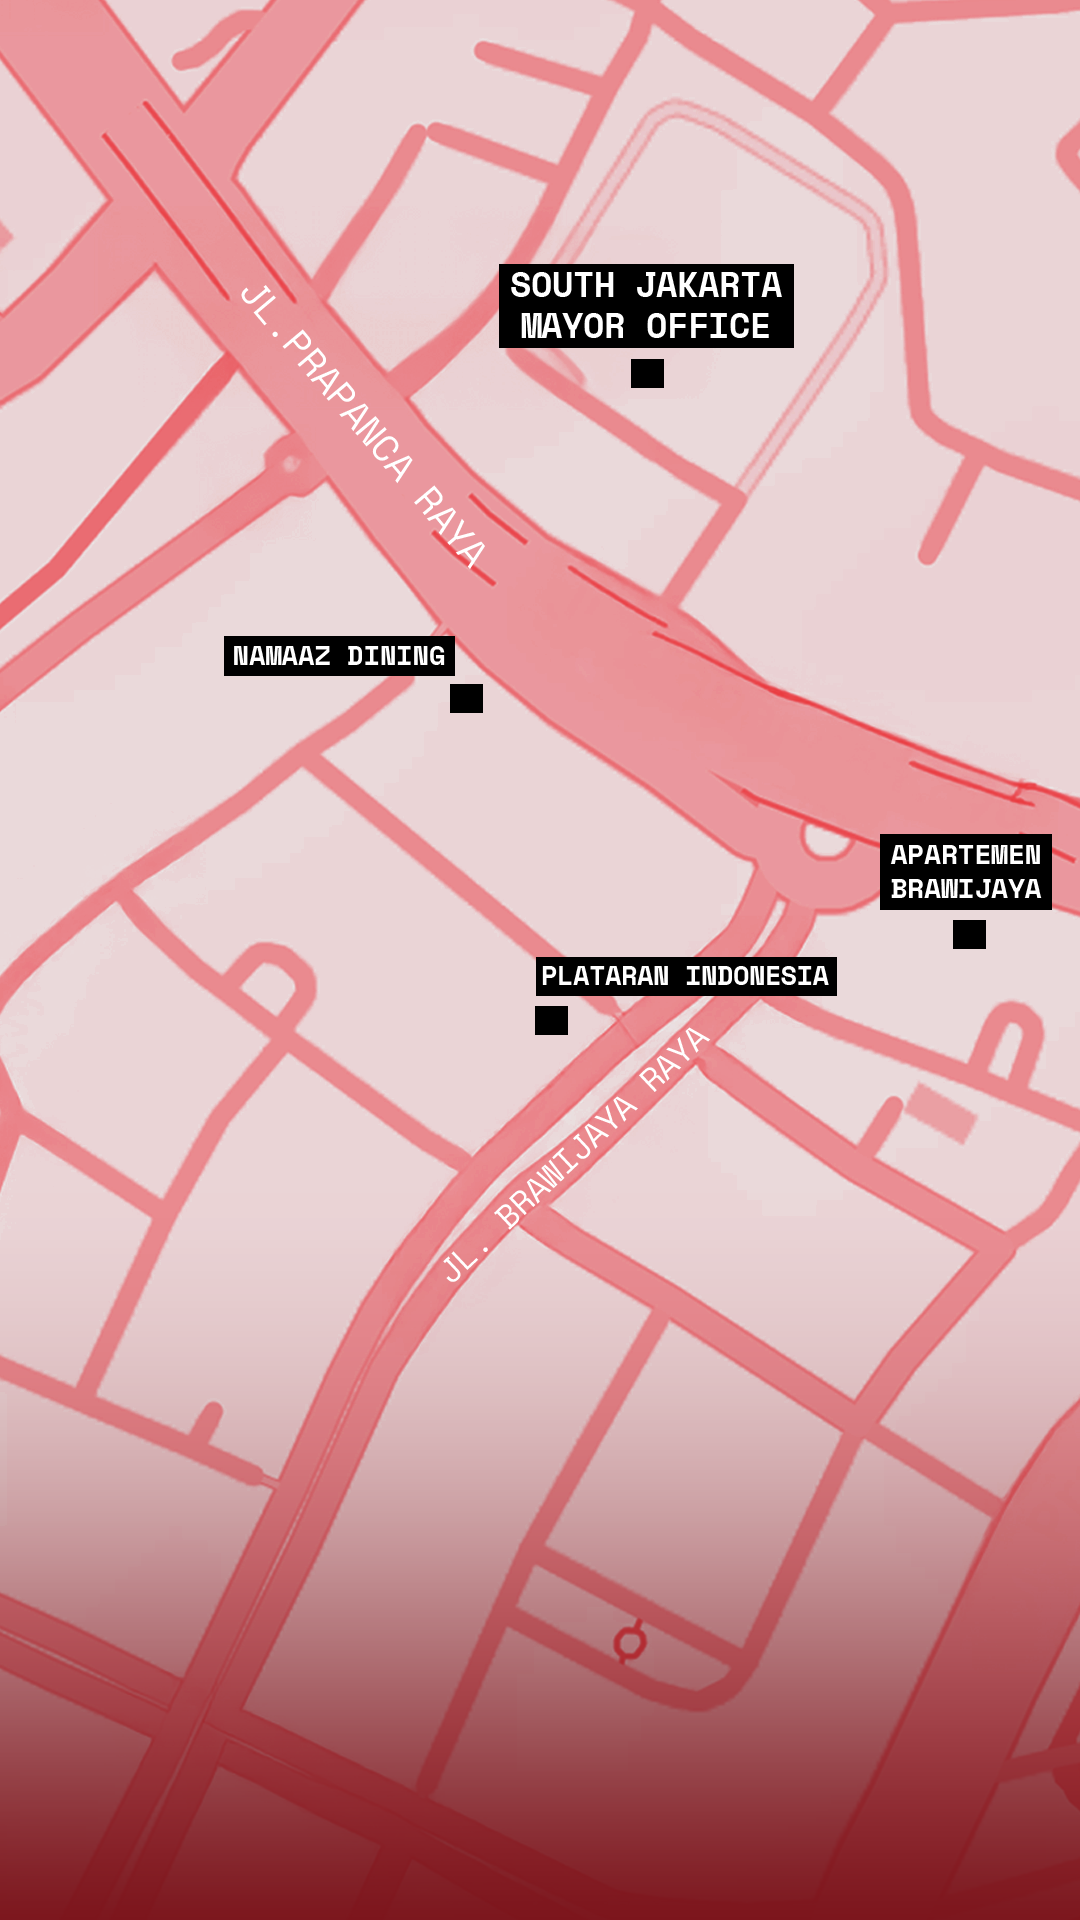
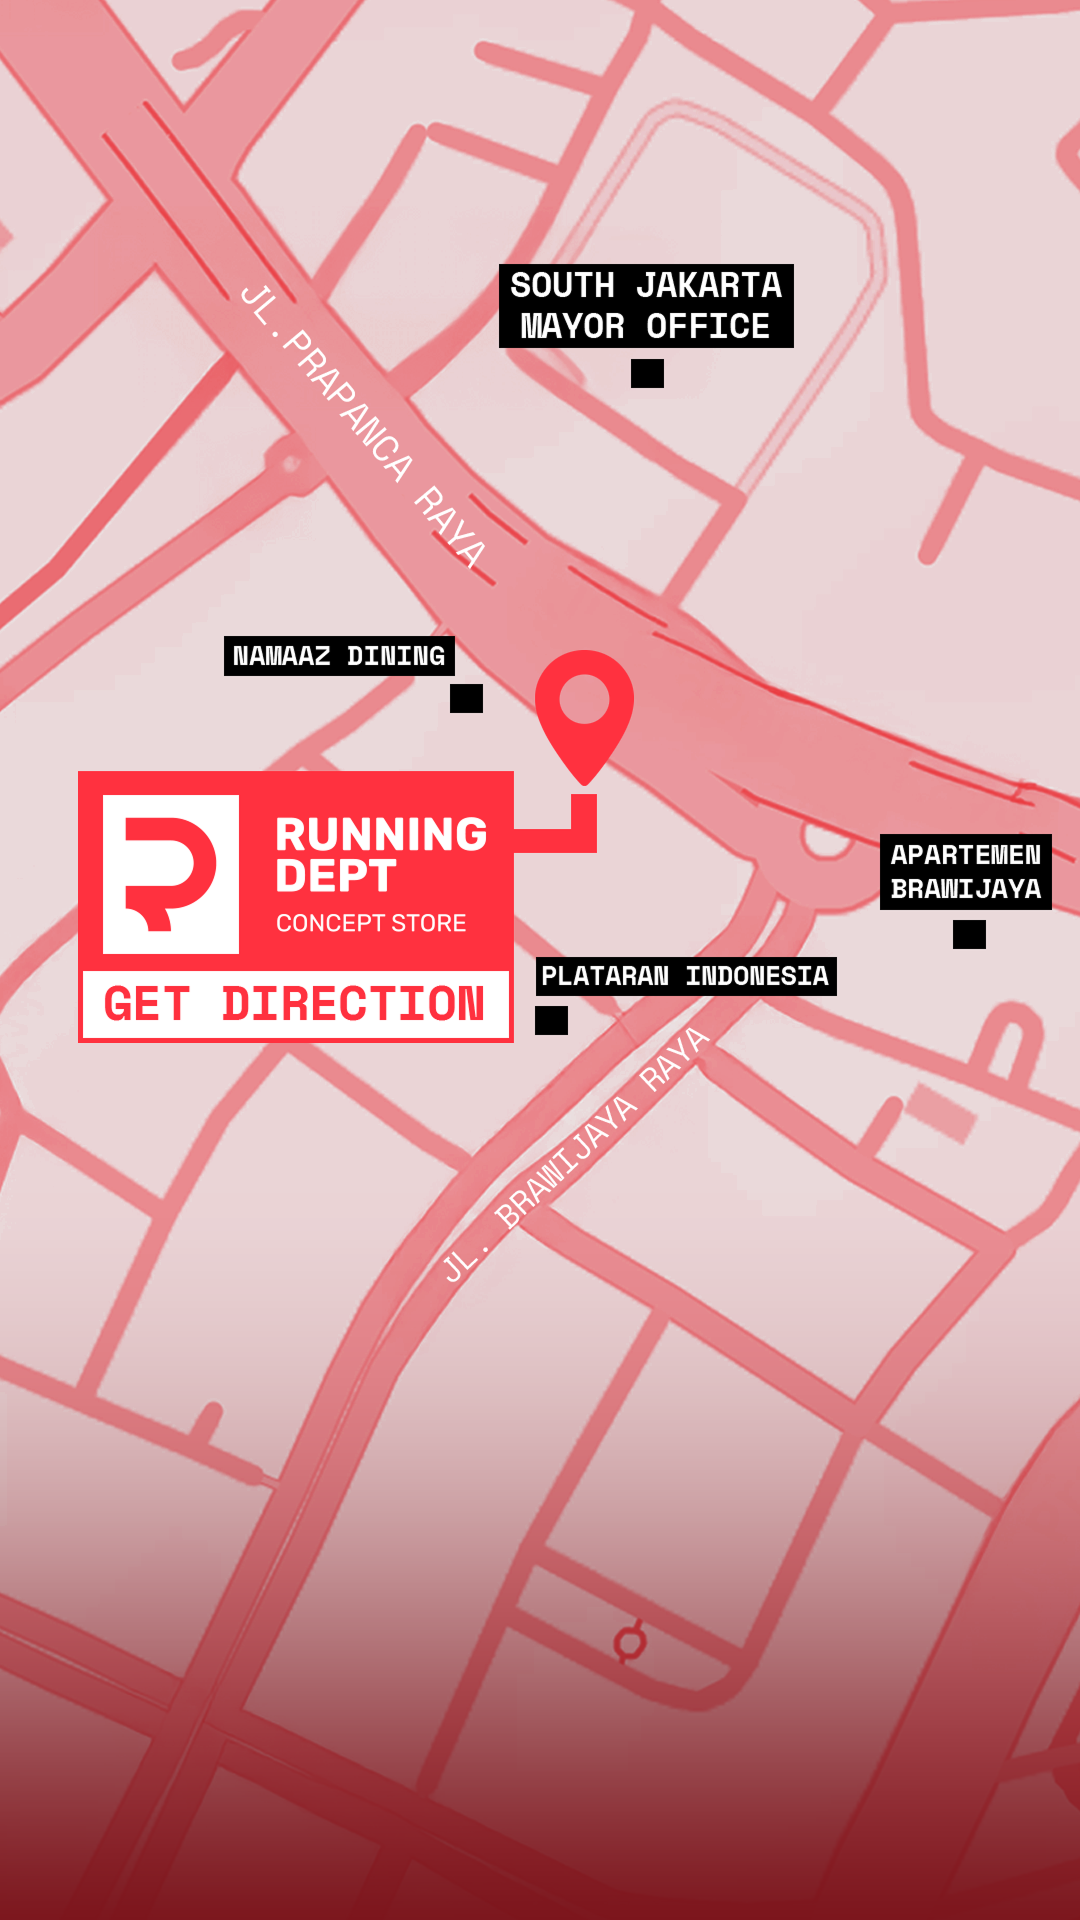
Update email and UI references from "Kick Off Day" to "Flag Off Day" and adjust image sizes

Changed region(s): [[0.0611, 0.3125, 0.6111, 0.5625]]

diff --git a/resources/views/index.blade.php b/resources/views/index.blade.php
@@ -19,12 +19,12 @@
 
             </a> -->
             <!-- start of corner texture -->
-            <div id="topRightCornerTexture" class="absolute  w-20 -z-10 transition-all duration-500 -top-20 -right-20">
+            <div id="topRightCornerTexture" class="absolute  w-12 -z-10 transition-all duration-500 -top-20 -right-20">
                 <img src="/assets/img/corner-texture.png" alt="corner texture"
                     class="w-full h-full object-cover object-top-right">
             </div>
             <!-- bottom left -->
-            <div id="bottomLeftCornerTexture" class="absolute -bottom-20 -left-32 w-20 -z-10 transition-all duration-500">
+            <div id="bottomLeftCornerTexture" class="absolute -bottom-20 -left-32 w-12 -z-10 transition-all duration-500">
                 <img style="  transform: scaleY(-1) rotate(90deg);filter: FlipV;" src="/assets/img/corner-texture.png" alt="corner texture"
                     class="w-full h-full object-cover object-bottom-left">
             </div>
@@ -32,7 +32,7 @@
 
             <div id="main"
                 class="flex flex-col relative min-h-[100svh] w-full text-white pt-20
-                pb-32 font-spaceMono snap-start overflow-hidden">
+                pb-20 font-spaceMono snap-start overflow-hidden">
                 <!-- <div
                     class="absolute w-full min-h-[100svh] h-full max-h-screen max-w-lg -z-10 left-0 lg:left-1/2 lg:-translate-x-1/2 top-0 bg-running-red/70">
                 </div> -->
@@ -57,8 +57,8 @@
                         </div> -->
                     </div>
                     <div class="text-center px-2 flex flex-col gap-y-4">
-                        <p class="text-xl font-extrabold">You're Officially Invited to FLAG-OFF DAY!</p>
-                        <p class="font-normal text-normal px-4">Running Dept Proudly Presents the grand opening of Our First Concept Store, a home full of experience built for runners, communities, and podium chaser. It's time to step into your running home.</p>
+                        <p class=" text-lg font-extrabold">You're Officially Invited to FLAG-OFF DAY!</p>
+                        <p class="font-normal text-sm px-4">Running Dept Proudly Presents the grand opening of Our First Concept Store, a home full of experience built for runners, communities, and podium chaser. It's time to step into your running home.</p>
                     </div>
                 </div>
                 <div id="registerBtnGroup" class="transition-all duration-1000 opacity-0">
@@ -75,7 +75,6 @@
             <div id="maps"
                 class="h-[100svh] w-full snap-start flex flex-col items-center relative font-inter text-white text-center bg-running-red overflow-y-hidden">
                 <img src="/assets/img/maps.png" alt="maps" class="h-full absolute object-fill">
-                <img id="mapPinPoint" src="/assets/img/map-pin-point.png" alt="maps" class="w-40 absolute left-20 top-1/2 -translate-y-36 opacity-0 transition-all duration-700 delay-300">
                 <img id="mapCaution" src="/assets/img/map-caution.png" alt="map caution" class="absolute bottom-20 left-1/2 -translate-x-1/2 w-[90%] bg-white/10 backdrop-blur-sm opacity-0 transition-all duration-700 delay-700">
                 <!-- <div class="flex-grow h-full flex items-center">
                     <div id="mapsImg" class="overflow-hidden transition-all duration-1000 h-full">
@@ -96,12 +95,12 @@
                 class="relative min-h-[100svh] w-full transition-all duration-1000 snap-start overflow-hidden font-spaceMono uppercase">
                 <div class="absolute top-0 left-0 min-h-[100svh] h-full max-h-screen w-full -z-10 bg-white"></div>
                 <!-- start of corner texture for form -->
-                <div id="formTopRightCornerTexture" class="absolute w-20 transition-all duration-500 delay-500 -top-20 -right-20">
+                <div id="formTopRightCornerTexture" class="absolute w-12 transition-all duration-500 delay-500 -top-20 -right-20">
                     <img src="/assets/img/corner-texture-red.png" alt="corner texture"
                         class="w-full h-full object-cover object-top-right">
                 </div>
                 <!-- bottom left -->
-                <div id="formBottomLeftCornerTexture" class="absolute -bottom-20 -left-32 w-20 transition-all duration-500 delay-500">
+                <div id="formBottomLeftCornerTexture" class="absolute -bottom-20 -left-32 w-12 transition-all duration-500 delay-500">
                     <img style="transform: scaleY(-1) rotate(90deg);filter: FlipV;" src="/assets/img/corner-texture-red.png" alt="corner texture"
                         class="w-full h-full object-cover object-bottom-left">
                 </div>
@@ -160,7 +159,7 @@
                                     class="block w-full py-3 transition-all bg-white border focus:border-2 border-running-red/70 focus:border-running-red text-running-red placeholder-running-red text-center focus:placeholder-transparent" value="0" max="2" />
                                 </div>
                                 <button id="submitBtn" type="button"
-                                    class=" block w-full py-6 bg-running-red text-white transition-all mt-8 mb-10 text-xl">SUBMIT</button>
+                                    class=" block w-full py-4 bg-running-red text-white transition-all mt-8 mb-10 text-xl">SUBMIT</button>
                             </div>
                         </div>
                     </div>
@@ -200,7 +199,6 @@
         const timelineTitle = document.getElementById("timelineTitle");
         const timelineRundown = document.getElementById("timelineRundown");
         const timelineLogos = document.getElementById("timelineLogos");
-        const mapPinPoint = document.getElementById("mapPinPoint");
         const mapCaution = document.getElementById("mapCaution");
         let timelineRevealed = false;
         let mapsRevealed = false;
@@ -264,9 +262,6 @@
             if (isMapsVisible && !mapsRevealed) {
                 mapsRevealed = true;
                 setTimeout(() => {
-                    mapPinPoint.classList.remove("opacity-0");
-                }, 200);
-                setTimeout(() => {
                     mapCaution.classList.remove("opacity-0");
                 }, 500);
             }
@@ -290,7 +285,7 @@
 
         maps.addEventListener("click",(e) => {
             e.preventDefault();
-            window.open("https://maps.app.goo.gl/6HRuTv2eBUh4ri7L7?g_st=ipc", "_blank");
+            window.open("https://maps.app.goo.gl/mjoX3hEHbbRryWGg6?g_st=ic", "_blank");
         })
 
         const popup = Swal.mixin({
@@ -414,7 +409,7 @@
                 if (res.ok) {
                     popup.fire({
                         title: `<span class="font-inter font-bold text-[#040404]">Thank you!</span>`,
-                        html: `<div class="text-sm -mt-4"><p class="font-inter">Check your email for your <b>RSVP Number</b></p><p class="font-inter">Your submission is valid for 1 person only.</p><p class="font-inter">Don’t forget to wear your favorite football jersey, get dressed and impress on the Kick Off Day!</p></div>`,
+                        html: `<div class="text-sm -mt-4"><p class="font-inter">Check your email for your <b>RSVP Number</b></p><p class="font-inter">Your submission is valid for 1 person only.</p><p class="font-inter">Just show up because you better RUN!</p></div>`,
                         imageUrl: "/assets/icon/check.svg",
                         confirmButtonText: `<span class="font-inter">Close</span>`
                     });

diff --git a/resources/views/mail/participant-verification.blade.php b/resources/views/mail/participant-verification.blade.php
@@ -4,12 +4,12 @@
         <td align="center">
             <div style="width:50%; max-width:100%; background-color:white; padding: 2rem; border-radius: 10px">
                 <p style="margin-bottom: 1rem">Dear {{ $participant->name }},</p>
-                <p style="margin-bottom: 1rem">Thank you for submit RSVP for The Kick Off Day at Football Dept Concept Store, 18 Oktober 2025
+                <p style="margin-bottom: 1rem">Thank you for submit RSVP for The Flag Off Day at Running Dept Concept Store, 7 Februari 2026
                 </p>
                 <p style="margin-bottom: 1rem">Here is your RSVP number <b style="font-size: 4rem">{{$participant->participant_number}}</b>
                 </p>
-                <p style="margin-bottom: 1rem">Prepare your best at the Kick Off Day at FDCS!</p>
-                <p style="">Sincerely, Football Dept Team</p>
+                <p style="margin-bottom: 1rem">Prepare your best at the Flag Off Day at RDCS!</p>
+                <p style="">Sincerely, Running Dept Team</p>
             </div>
         </td>
     </tr>

diff --git a/resources/views/dashboard/layout.blade.php b/resources/views/dashboard/layout.blade.php
@@ -31,7 +31,7 @@
                     class="inline h-full max-w-full transition-all duration-200 ease-nav-brand max-h-6"
                     alt="main_logo" />
                 <span
-                    class="ml-1 font-semibold transition-all duration-200 ease-nav-brand inline-block text-center text-base">FDCS RSVP</span>
+                    class="ml-1 font-semibold transition-all duration-200 ease-nav-brand inline-block text-center text-base">RDCS RSVP</span>
             </a>
         </div>
 

diff --git a/app/Mail/ParticipantVerification.php b/app/Mail/ParticipantVerification.php
@@ -30,7 +30,7 @@ class ParticipantVerification extends Mailable
     public function envelope(): Envelope
     {
         return new Envelope(
-            subject: 'The Kick Off Day - Verification Email',
+            subject: 'Flag Off Day - Verification Email',
         );
     }
 
